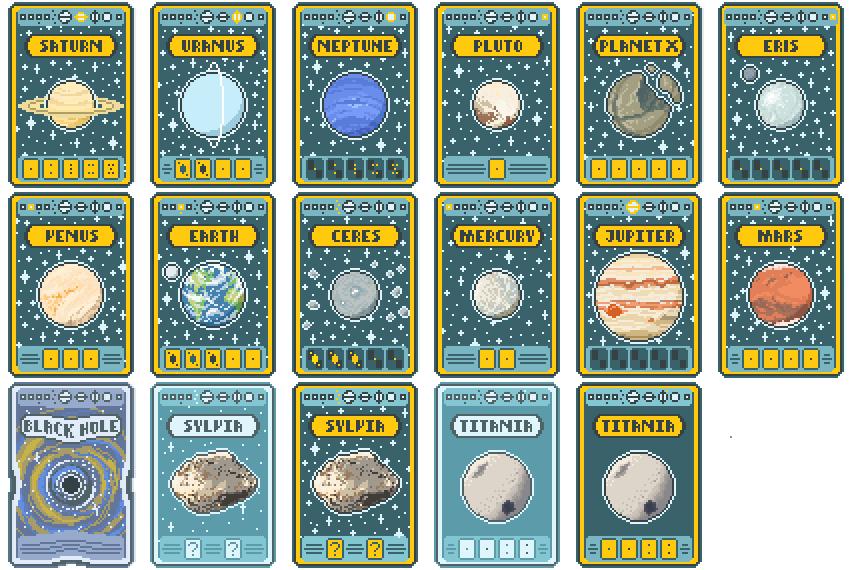
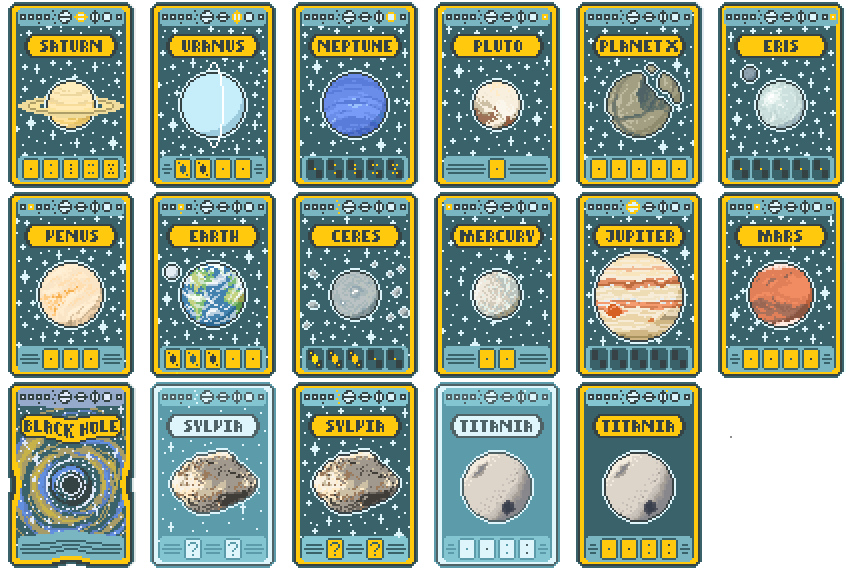
Add astral Black Hole

Changed region(s): [[0.0, 0.6561, 0.1831, 1.0]]

diff --git a/README.md b/README.md
@@ -21,9 +21,9 @@
     <li>16 Planets</li>
     <li>10+ Enhancements</li>
     <li>5 Decks</li>
+    <li>5 Spectrals</li>
     <li>4 Booster Packs</li>
     <li>4 Vouchers</li>
-    <li>4 Spectrals</li>
     <li>3 Editions</li>
     <li>3 Tarots</li>
     <li>2 Boss Blind</li>
